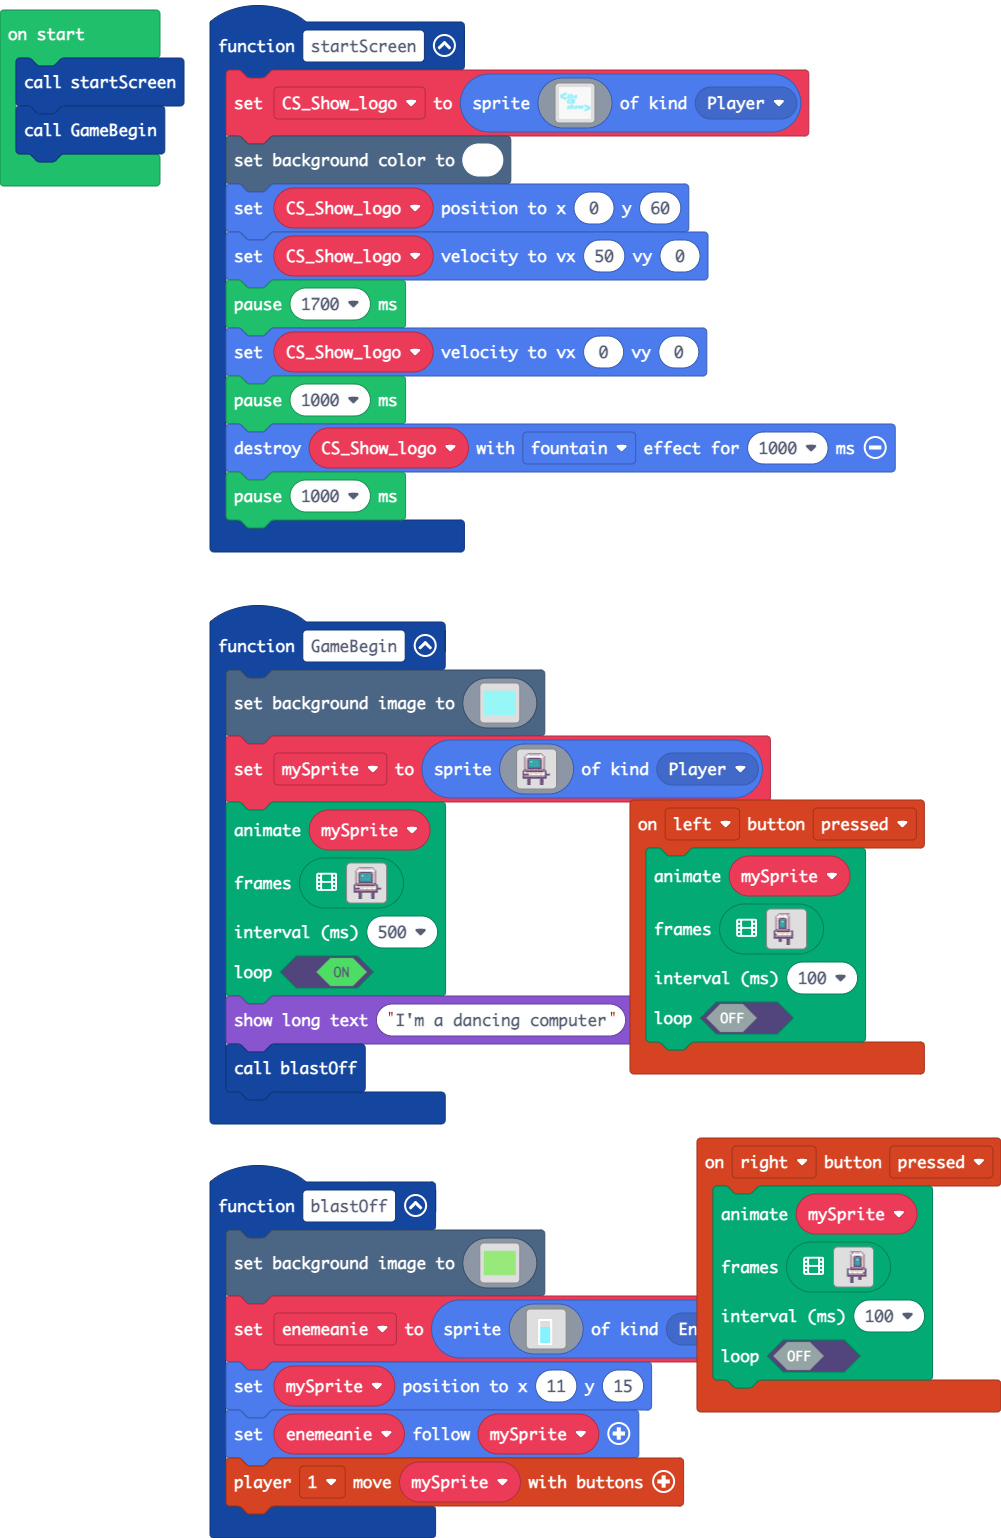
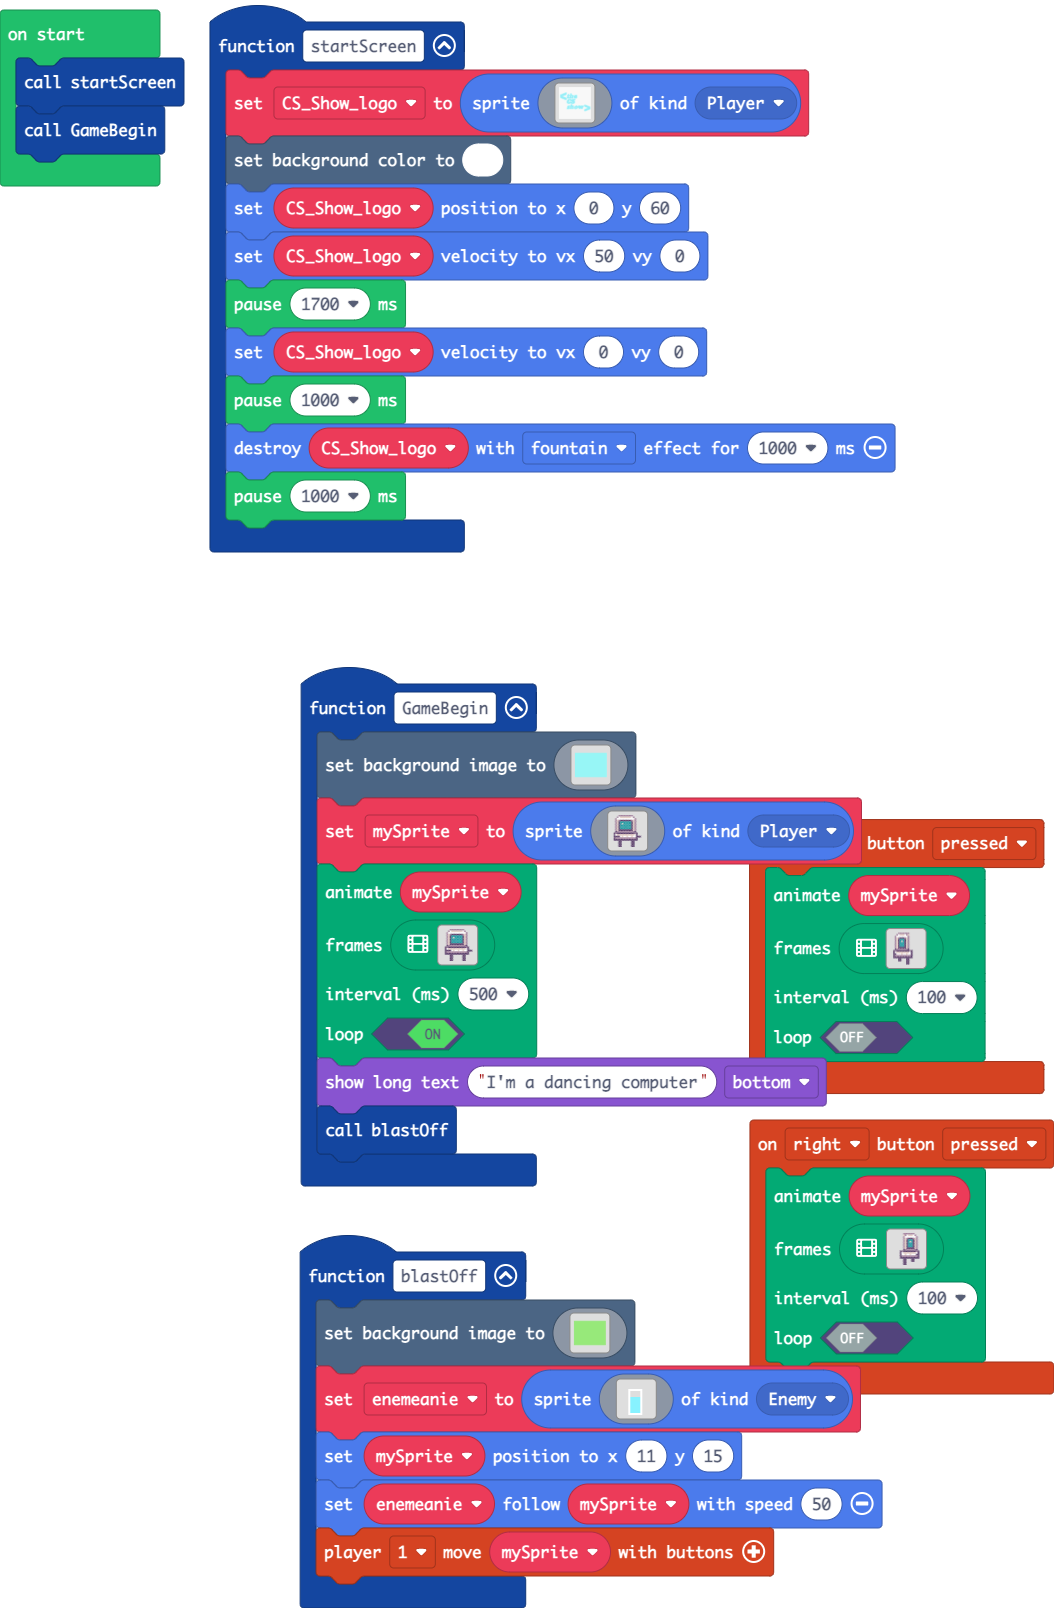
Update main.blocks, main.ts

diff --git a/main.ts b/main.ts
@@ -299,7 +299,7 @@ function blastOff () {
         `)
     enemeanie = sprites.create(assets.image`glassOfH2O`, SpriteKind.Enemy)
     mySprite.setPosition(11, 15)
-    enemeanie.follow(mySprite)
+    enemeanie.follow(mySprite, 50)
     controller.player1.moveSprite(mySprite)
 }
 function GameBegin () {
